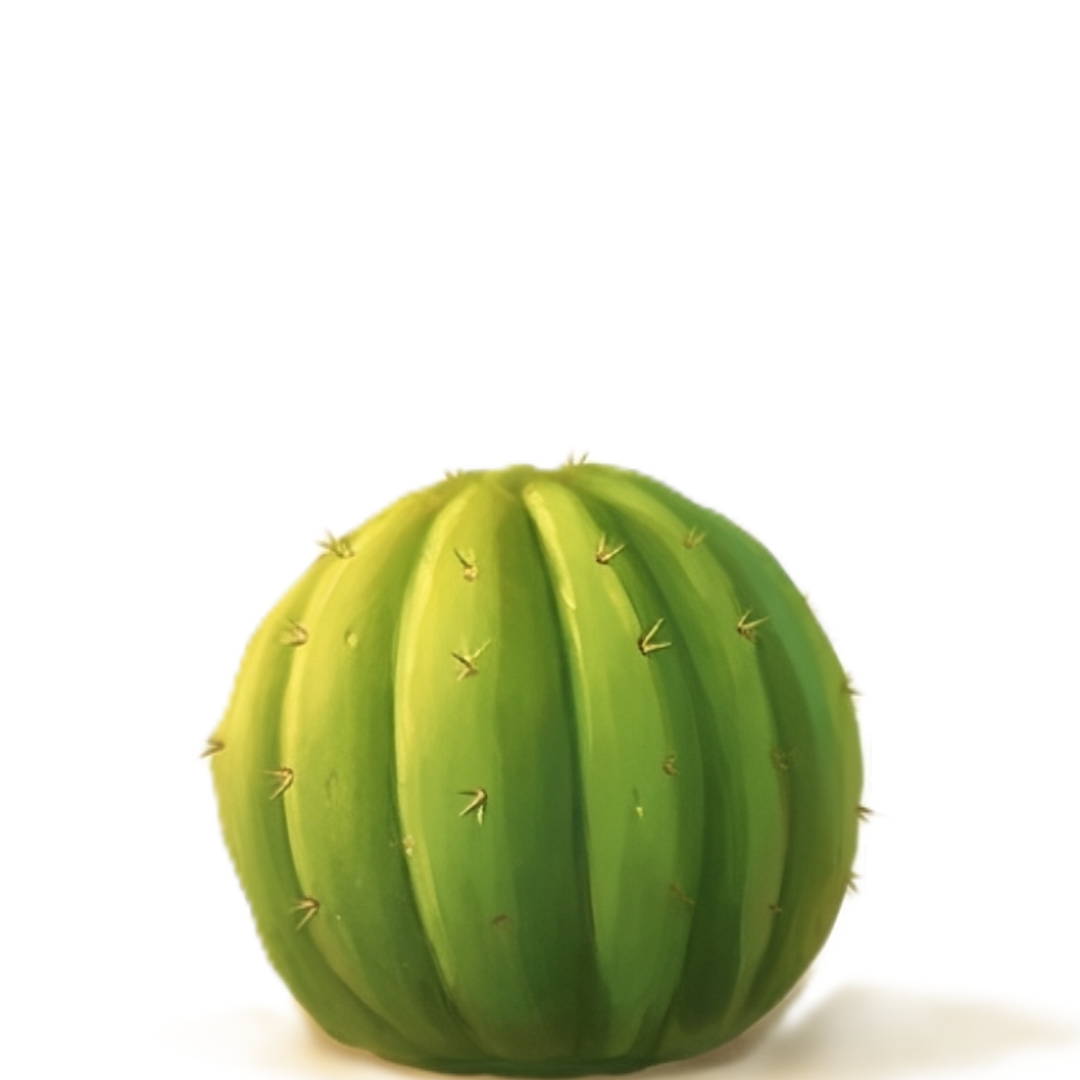
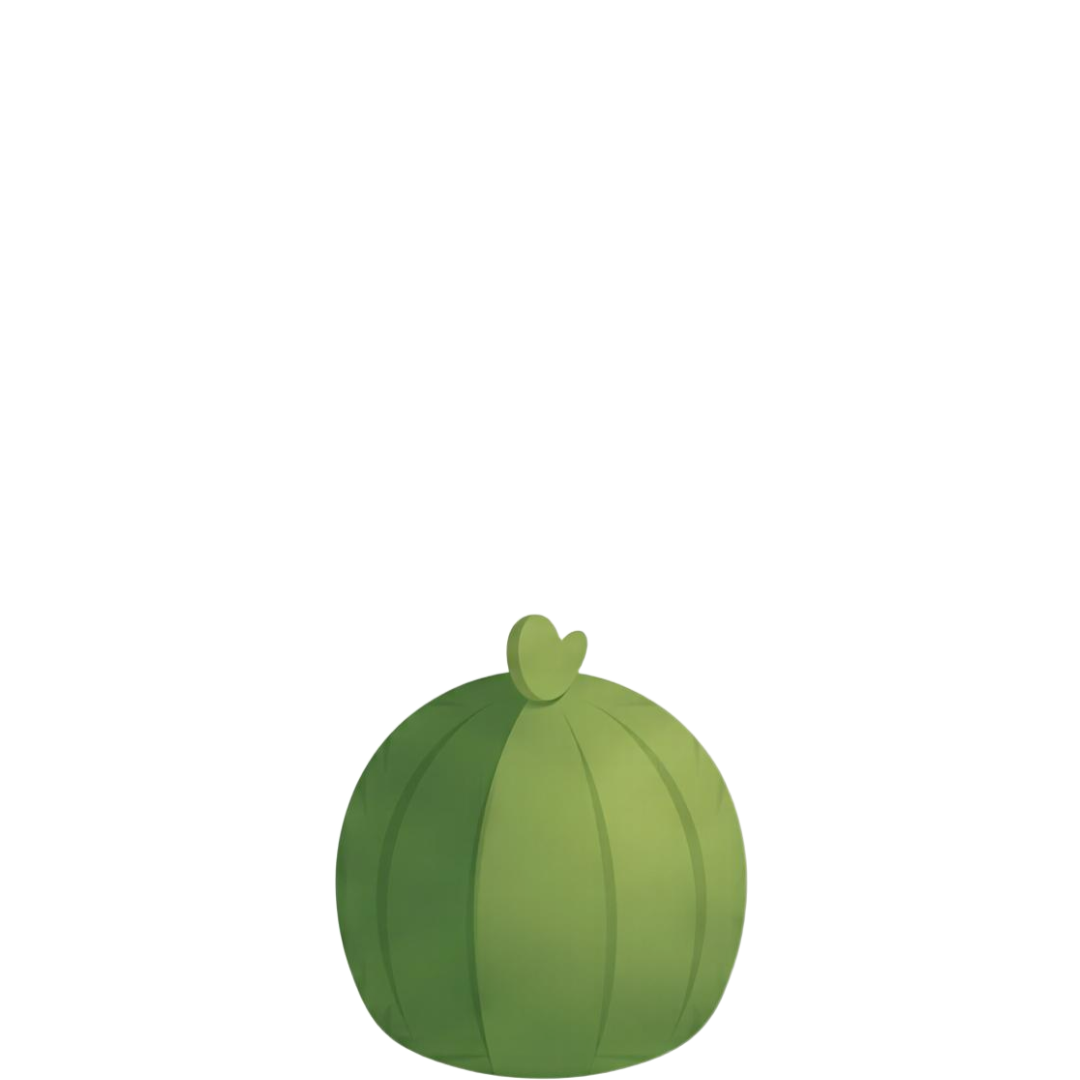
feat(assets): complete cactus 5 stages (flat vector isometric style)

Changed region(s): [[0.1833, 0.3972, 0.9778, 1.0]]

diff --git a/docs/ASSET-SESSION-PLAYBOOK.md b/docs/ASSET-SESSION-PLAYBOOK.md
@@ -144,7 +144,7 @@ Sau đó cho Claude biết 5 stage variations:
 |---|---------|-------------|--------|-------|
 | 1 | Cherry blossom | `public/plants/cherry-blossom/mature.png` | **4/5 ✅** (seedling ✅, sapling ✅, mature ✅, bloom ✅, juvenile ✅) | accent pink, prompt v5, isometric no-tile, light upper-right |
 | 2 | Sunflower | `public/plants/sunflower/mature.png` | **COMPLETE ✅** (seedling ✅, sapling ✅, juvenile ✅, mature ✅, bloom ✅) | accent yellow #F5C842, first-try anchor |
-| 3 | Cactus | — | TODO | accent green only, no flower |
+| 3 | Cactus | `public/plants/cactus/04-blooming.png` | **COMPLETE ✅** (seedling ✅, sapling ✅, juvenile ✅, mature ✅, bloom ✅) | accent green only, pink flowers on bloom stage, first-try all 5 stages |
 | 4 | Succulent | — | TODO | rosette form, accent muted |
 | 5 | Bonsai | — | TODO | accent green dark #2D5016 |
 | 6 | Rose bush | — | TODO | accent red #C84A4A |
@@ -239,6 +239,13 @@ Sau đó cho Claude biết 5 stage variations:
 - **Issue**: Edit from anchor produced correct pink tone but size ~65% (same as mature) — Anchor Gravity resists size reduction
 - **Fix v3**: More aggressive "COMPLETELY REPLACE", "significantly smaller", "half the size of current canopy", reinforced empty space requirement
 
+### 2026-04-21 | Cactus | All 5 stages PASS first try
+- **Result**: All 5 stages generated successfully on first attempt. Mature anchor + bloom (edit from anchor) + seedling/sapling/juvenile (fresh generate).
+- **Pattern**: Saguaro cactus has distinct silhouette (cylinder + arms) — no Shape Semantic Collision. Green-foliage = safe for fresh generate (no anchor-dependent palette issue).
+- **Issue**: Stages 1-3 output ~16:9 ratio despite 1:1 setting — Gemini sometimes ignores ratio when subject is small relative to canvas. Need to crop to square in post-processing.
+- **Lesson**: For future subjects, add explicit "SQUARE 1:1 canvas, equal width and height" in prompt text to reinforce the API ratio setting.
+- **Cost**: ~5 images × $0.134 = ~$0.67
+
 ### [Template cho entry mới]
 ```
 ### YYYY-MM-DD | [Subject] | [Issue] → [Fix]
@@ -258,6 +265,7 @@ Sau đó cho Claude biết 5 stage variations:
 | 2026-04-19 | Cherry blossom sapling iteration | sapling v2 (fail), v3 (pass) | 2 | ~$0.27 |
 | 2026-04-20 | Sunflower (all 5 stages) | seedling, sapling, juvenile, mature, bloom | 5 | ~$0.67 |
 | 2026-04-20 | Cherry blossom juvenile | v1 (fail), v2 (Anchor Gravity), v3 | 3 | ~$0.40 |
+| 2026-04-21 | Cactus (all 5 stages) | seedling, sapling, juvenile, mature, bloom | 5 | ~$0.67 |
 
 **Pricing reference**: NB2 @ 2K = ~$0.134/image. 11 plants × 5 stages = 55 images ≈ **$7.37**
 
